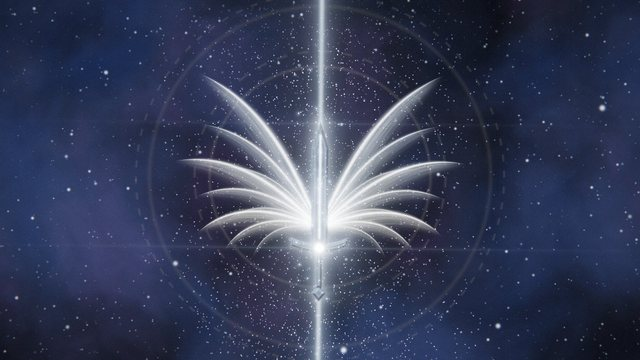
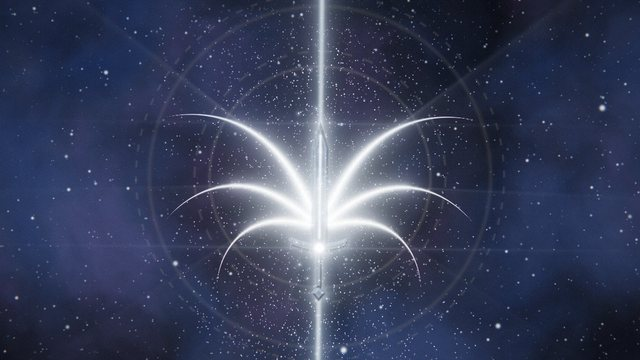
루미노시티: 점화 컷의 깃털 날개를 여섯 개의 휜 빛가시로 교체 (뿌리는 굵고 끝은 바늘처럼), 썸네일·히어로 갱신

Changed region(s): [[0.2812, 0.2139, 0.7188, 0.7639], [0.6875, 0.55, 0.7188, 0.5806]]

diff --git a/public/luminosity_gl.html b/public/luminosity_gl.html
@@ -18,14 +18,14 @@
 /* ═══════════════════════════════════════════════════════════════
    [ LUMINOSITY ] 광휘 — 전면 재제작판 (WebGL2, 컷 편집)
    화면은 전부 셰이더로 그린다: 일식 코로나(솔) · 금속 질감 SDF 무기(베벨/스펙큘러/각인 발광) · 도메인 워핑 혼돈 연기 ·
-   삼각 파편 파쇄 · 빛날개 · 빛기둥 · 아나모픽 플레어. 2D 캔버스는 타이틀 글자 텍스처에만 쓴다.
+   삼각 파편 파쇄 · 휜 빛가시 · 빛기둥 · 아나모픽 플레어. 2D 캔버스는 타이틀 글자 텍스처에만 쓴다.
    컷 구성 (사운드 타격점에 맞춤)
      A 0~6.0      솔의 일식 코로나 아래, 일곱 무기가 원초의 혼돈으로 내리꽂힌다 (3.13 파쇄 → 붕괴)
      B 6.0~8.3    남겨진 파편 — 혼돈의 씨앗 매크로 숏
      C 8.3~10.4   일곱 무기에 의식이 깃들고(8.65), 솔이 잠든다(9.66)
      D 10.4~14.77 무기별 클로즈업 — 타격점마다 하나씩 산산조각 (중간 11.62~12.5 는 전경)
      E 14.77~19.62 홀로 남은 검 — 16.44 혼돈이 조여 오고, 검신에 빛이 차오른다
-     F 19.62~24.52 점화 — 부서진 여섯 무기가 빛날개로 돌아온다
+     F 19.62~24.52 점화 — 부서진 여섯 무기가 휜 빛가시로 돌아온다
      G 24.52~     타이틀
    상태가 없다(모든 것이 시간의 함수) → 탐색·정지 화면이 그대로 재현된다. 시계·HUD·자막은 cs_ui.js
    ═══════════════════════════════════════════════════════════════ */
@@ -223,20 +223,16 @@ vec4 shatter(int id, vec2 q, float ang, float px, float a, float energy, vec2 I,
 vec3 over(vec3 col, vec4 w){ return col * (1. - w.a) + w.rgb; }
 
 /* ── 빛날개: 검 뒤에서 좌우로 펼쳐지는 여섯 가닥 ── */
-vec3 wings(vec2 p, vec2 base){                                              // 가닥마다 깃 3장 · 앞전은 날카롭고 뒷전은 부드럽게 풀림
+vec3 wings(vec2 p, vec2 base){                                              // 검 뒤에서 좌우로 뻗는 여섯 개의 휜 빛가시 — 뿌리는 굵고 끝은 바늘처럼
   vec2 v = p - base; float r = length(v); vec3 acc = vec3(0.);
   for (int i = 0; i < 6; i++){
     float grow = uWing[i]; if (grow <= 0.) continue;
-    float sgn = (i % 2 == 0) ? -1. : 1., j = float(i / 2), ang = atan(v.x * sgn, v.y);
-    for (int k = 0; k < 3; k++){
-      float fk = float(k), Lw = (5.9 - j * 1.1) * (1. - .2 * fk) * grow, th0 = .42 + j * .4 + fk * .13, bend = .26 + j * .08 + fk * .06;
-      float u = r / max(Lw, 1e-3), da = ang - (th0 + bend * u * u), dp = r * sin(da);
-      float w = (.3 - j * .04) * (1. - .25 * fk) * pow(max(sin(PI * clamp(u, 0., 1.)), 0.), .6) * (1. - .4 * u) + .004;
-      float m = smoothstep(1., .8, u) * smoothstep(0., .08, u) * step(0., cos(da)) * (1. - .3 * fk);
-      float prof = dp > 0. ? exp(-pow(dp / (w * 1.7), 2.)) : exp(-pow(dp / (w * .4), 2.));
-      float barb = .5 + .5 * noise(vec2(dp / w * 7., r * 1.3 - uT * 1.6 + float(i * 3 + k) * 7.));
-      acc += (mix(LIGHT, GOLD, .2 + .2 * j) * prof * barb * .42 + vec3(1.) * exp(-pow(dp / (w * .16), 2.)) * .9) * m * (.7 + .5 * grow * (1. - u));
-    }
+    float sgn = (i % 2 == 0) ? -1. : 1., j = float(i / 2), Lw = (5.7 - j * 1.05) * grow, th0 = .42 + j * .46, bend = .55 + j * .12;
+    float u = r / max(Lw, 1e-3), da = atan(v.x * sgn, v.y) - (th0 + bend * u * u), dp = r * sin(da);
+    float w = (.17 - j * .02) * pow(max(1. - u, 0.), 1.25) * smoothstep(0., .1, u) + .003;
+    float m = smoothstep(1., .9, u) * smoothstep(0., .05, u) * step(0., cos(da));
+    float body = exp(-pow(dp / w, 2.)), corew = exp(-pow(dp / (w * .28), 2.));
+    acc += (mix(LIGHT, GOLD, .15 + .15 * j) * body * .75 + vec3(1.) * corew * 1.3 + LIGHT * exp(-abs(dp) * 2.2) * .05 * (1. - u)) * m * (.8 + .4 * grow * (1. - u));
   }
   return acc;
 }
